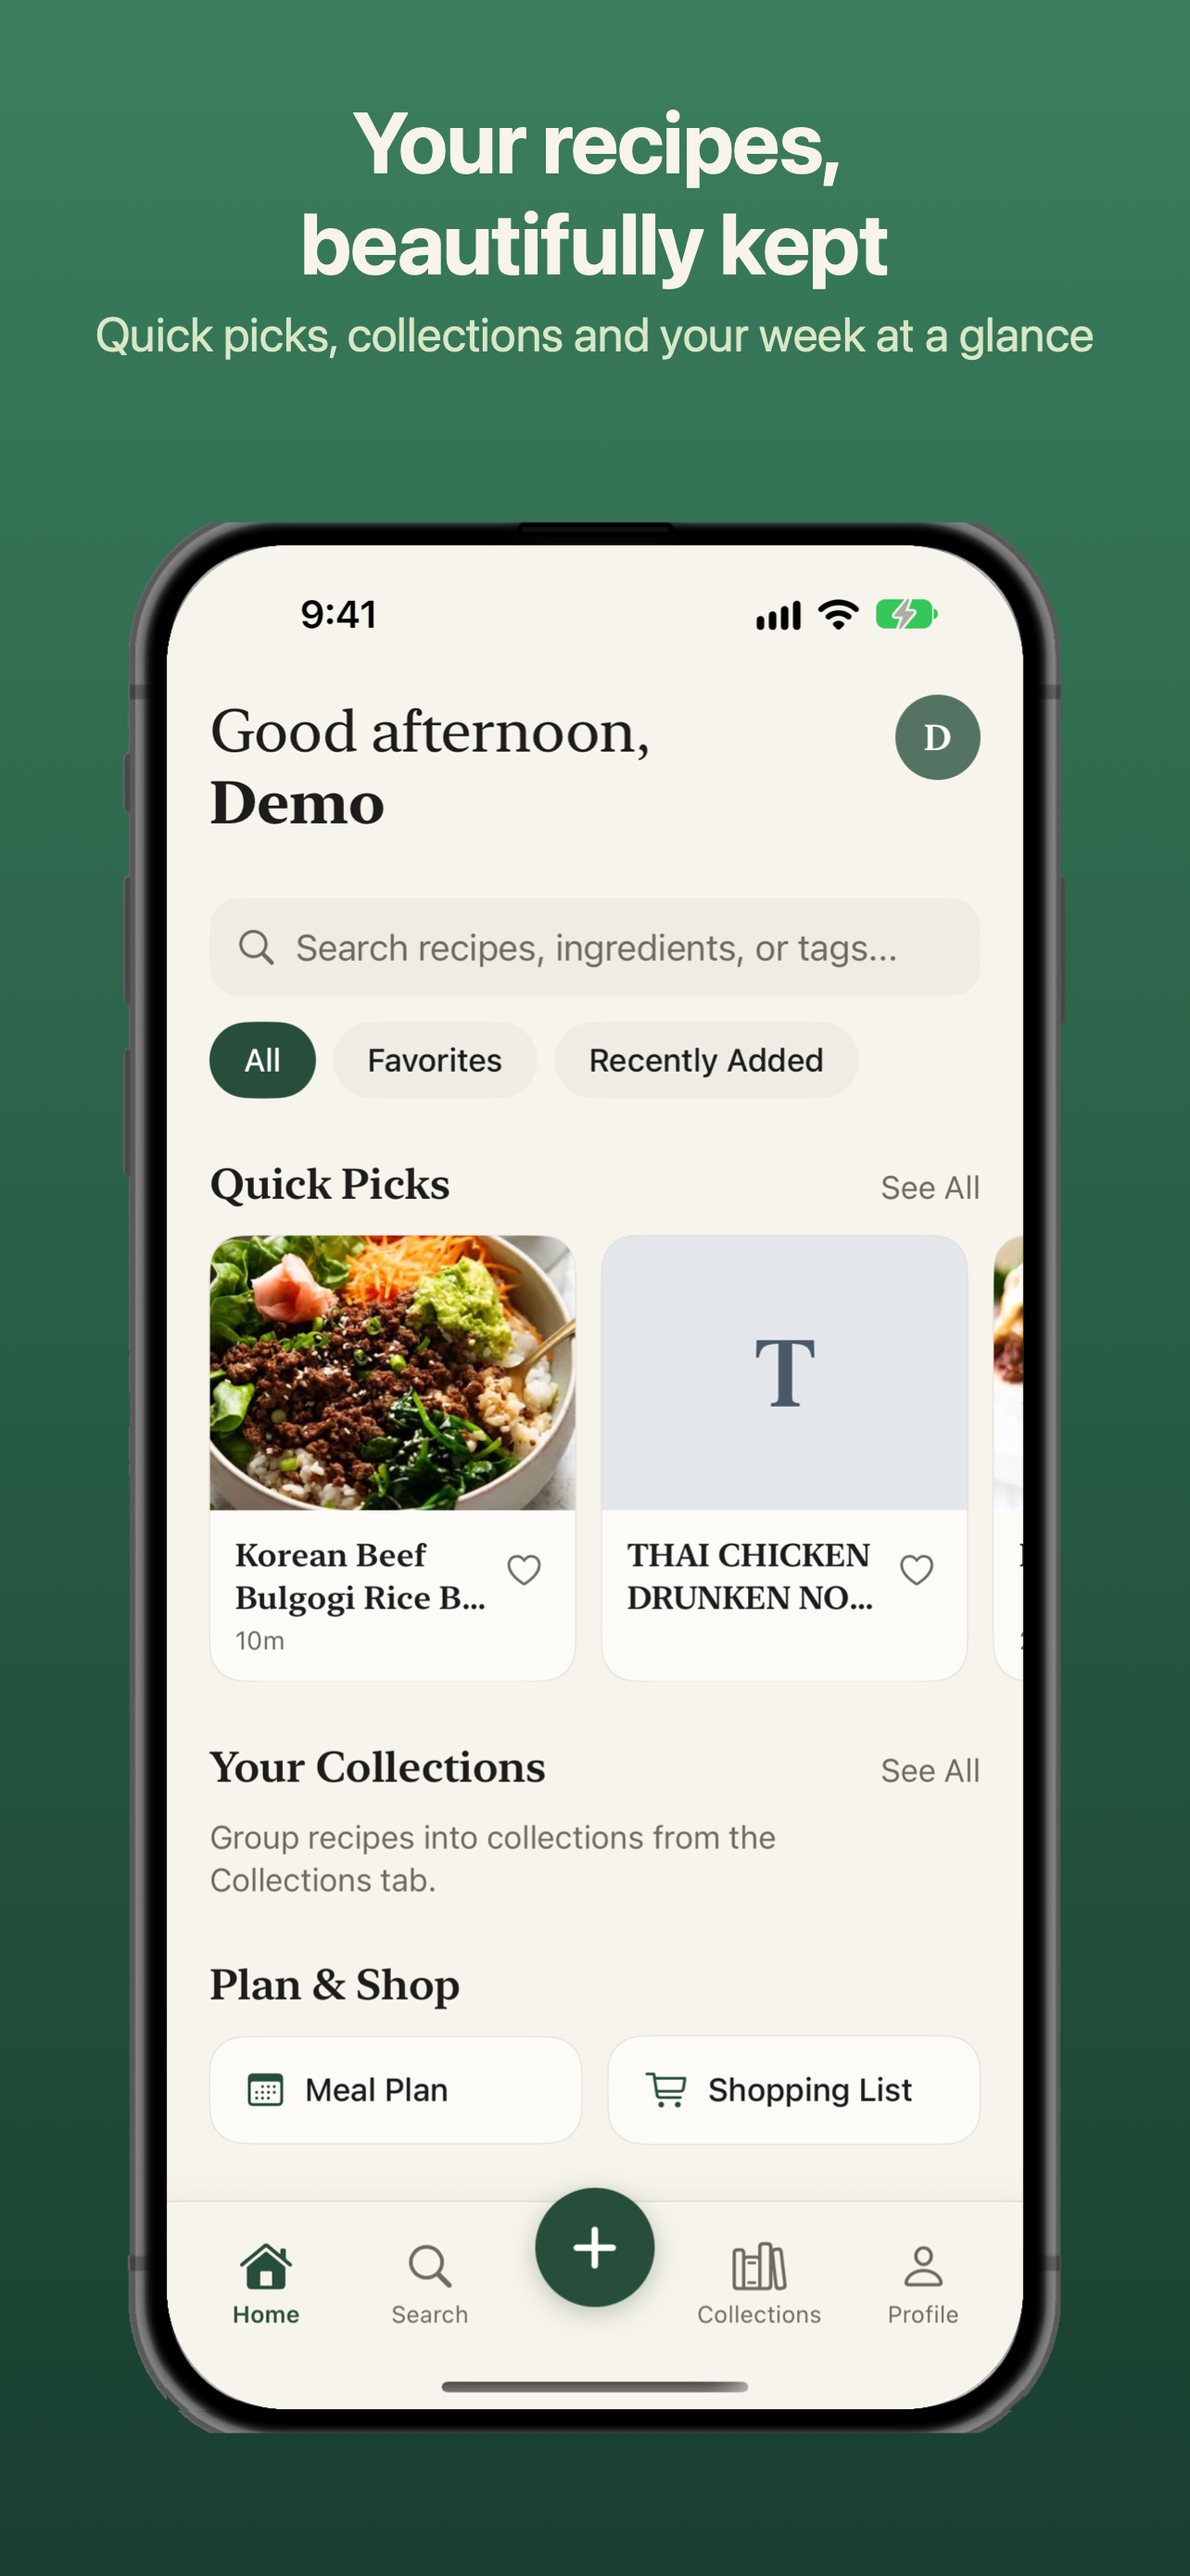
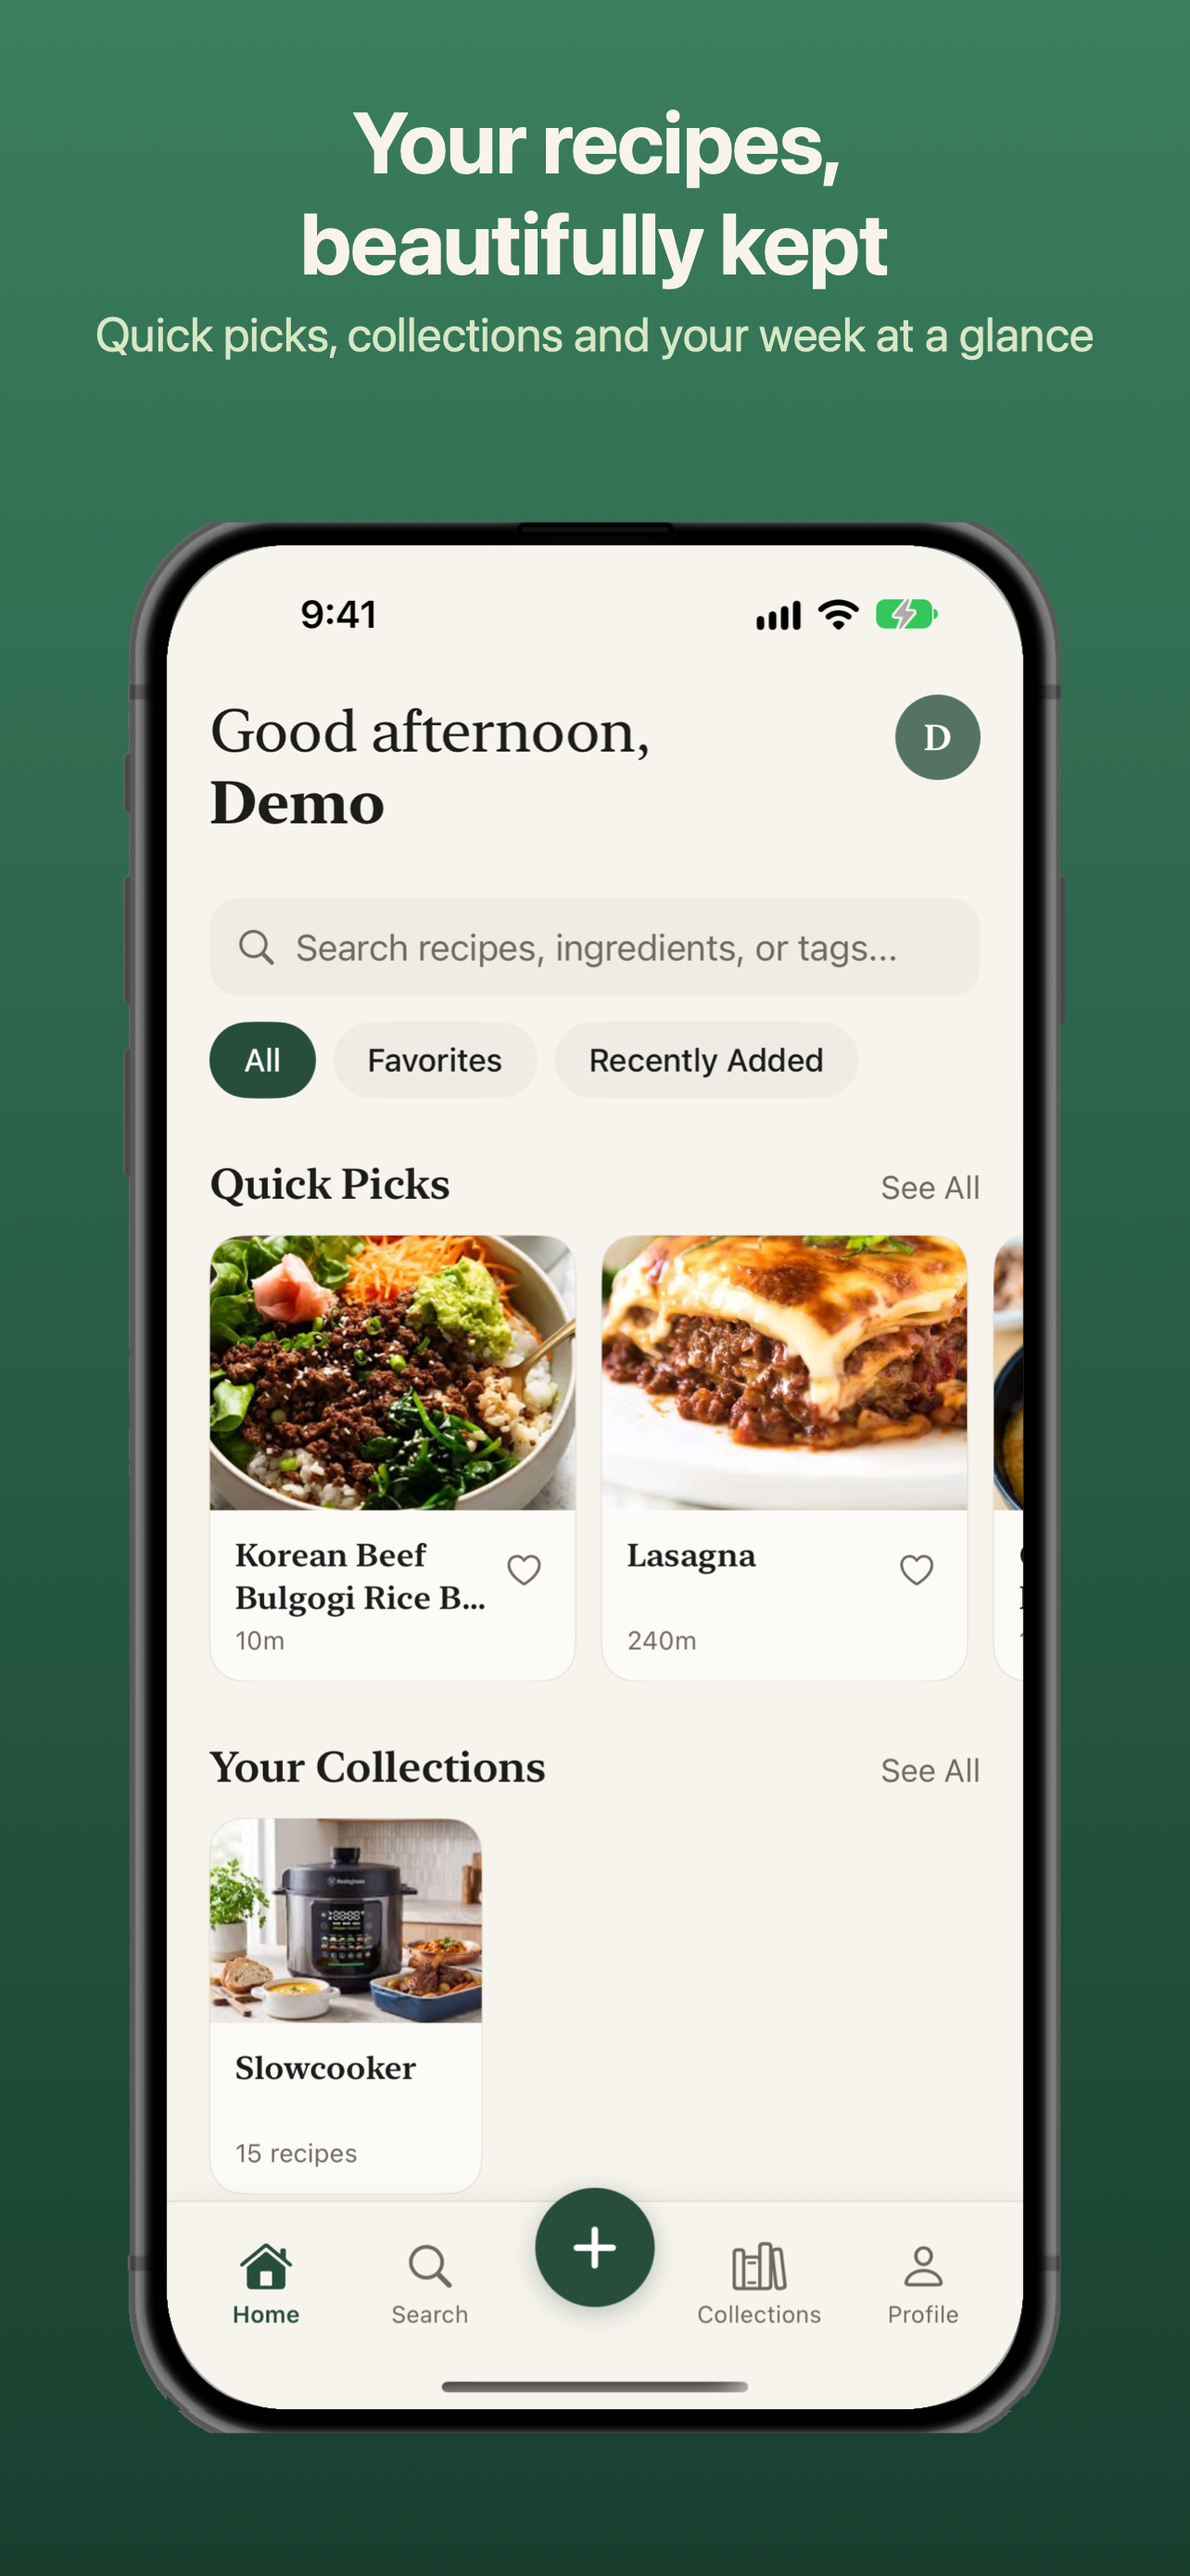
Retake store screenshots with a collection and a photo-only library; ten slides

Changed region(s): [[0.4984, 0.4644, 0.8723, 0.6501], [0.1558, 0.6811, 0.405, 0.8359], [0.5919, 0.8049, 0.7477, 0.8359]]

diff --git a/IOS/AppStore/Screenshots/README.md b/IOS/AppStore/Screenshots/README.md
@@ -1,7 +1,7 @@
 # App Store screenshots (iPhone only)
 
-- `raw/` – untouched simulator captures of a real library (iPhone 18 Pro, 1206×2622, light mode, 9:41 status bar). `raw-demo/` holds the earlier set from the seeded demo server (`tools/seed_demo.py`), which also has collections, meal plan and shopping shots.
-- `iphone-6.9/` (1320×2868, required) and `iphone-6.5/` (1284×2778) – the finished slides, eight each. Upload in filename order.
+- `raw/` – untouched simulator captures of a real library (iPhone 18 Pro, 1206×2622, light mode, 9:41 status bar). `raw-demo/` holds the earlier set from the seeded demo server (`tools/seed_demo.py`), (which also has meal plan and shopping shots).
+- `iphone-6.9/` (1320×2868, required) and `iphone-6.5/` (1284×2778) – the finished slides, ten each. Upload in filename order.
 - `frame.swift` + `assets/` – the framer (forest-green ground, cream captions, photographic iPhone frame), adapted from the ShelfHead set.
 - `generate.sh` – rebuilds every slide and holds the captions:
   `DEVELOPER_DIR=/Applications/Xcode.app/Contents/Developer ./generate.sh`
